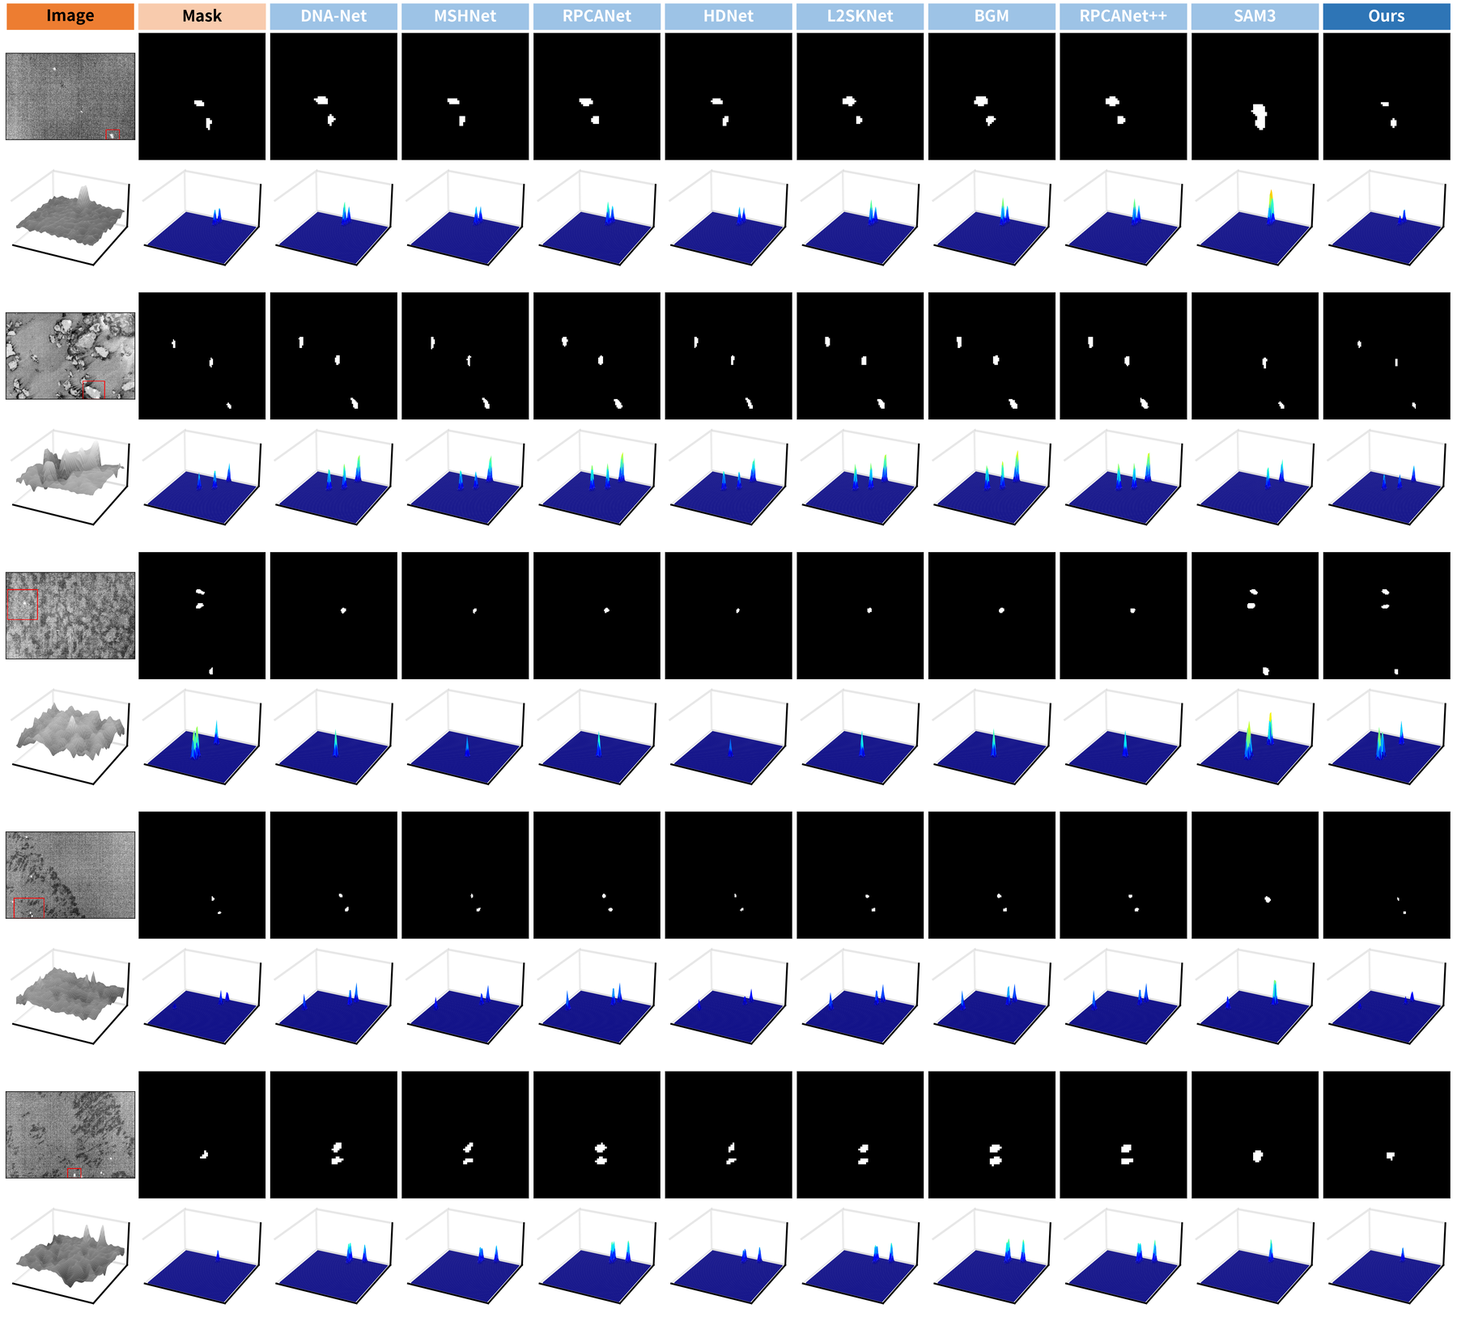
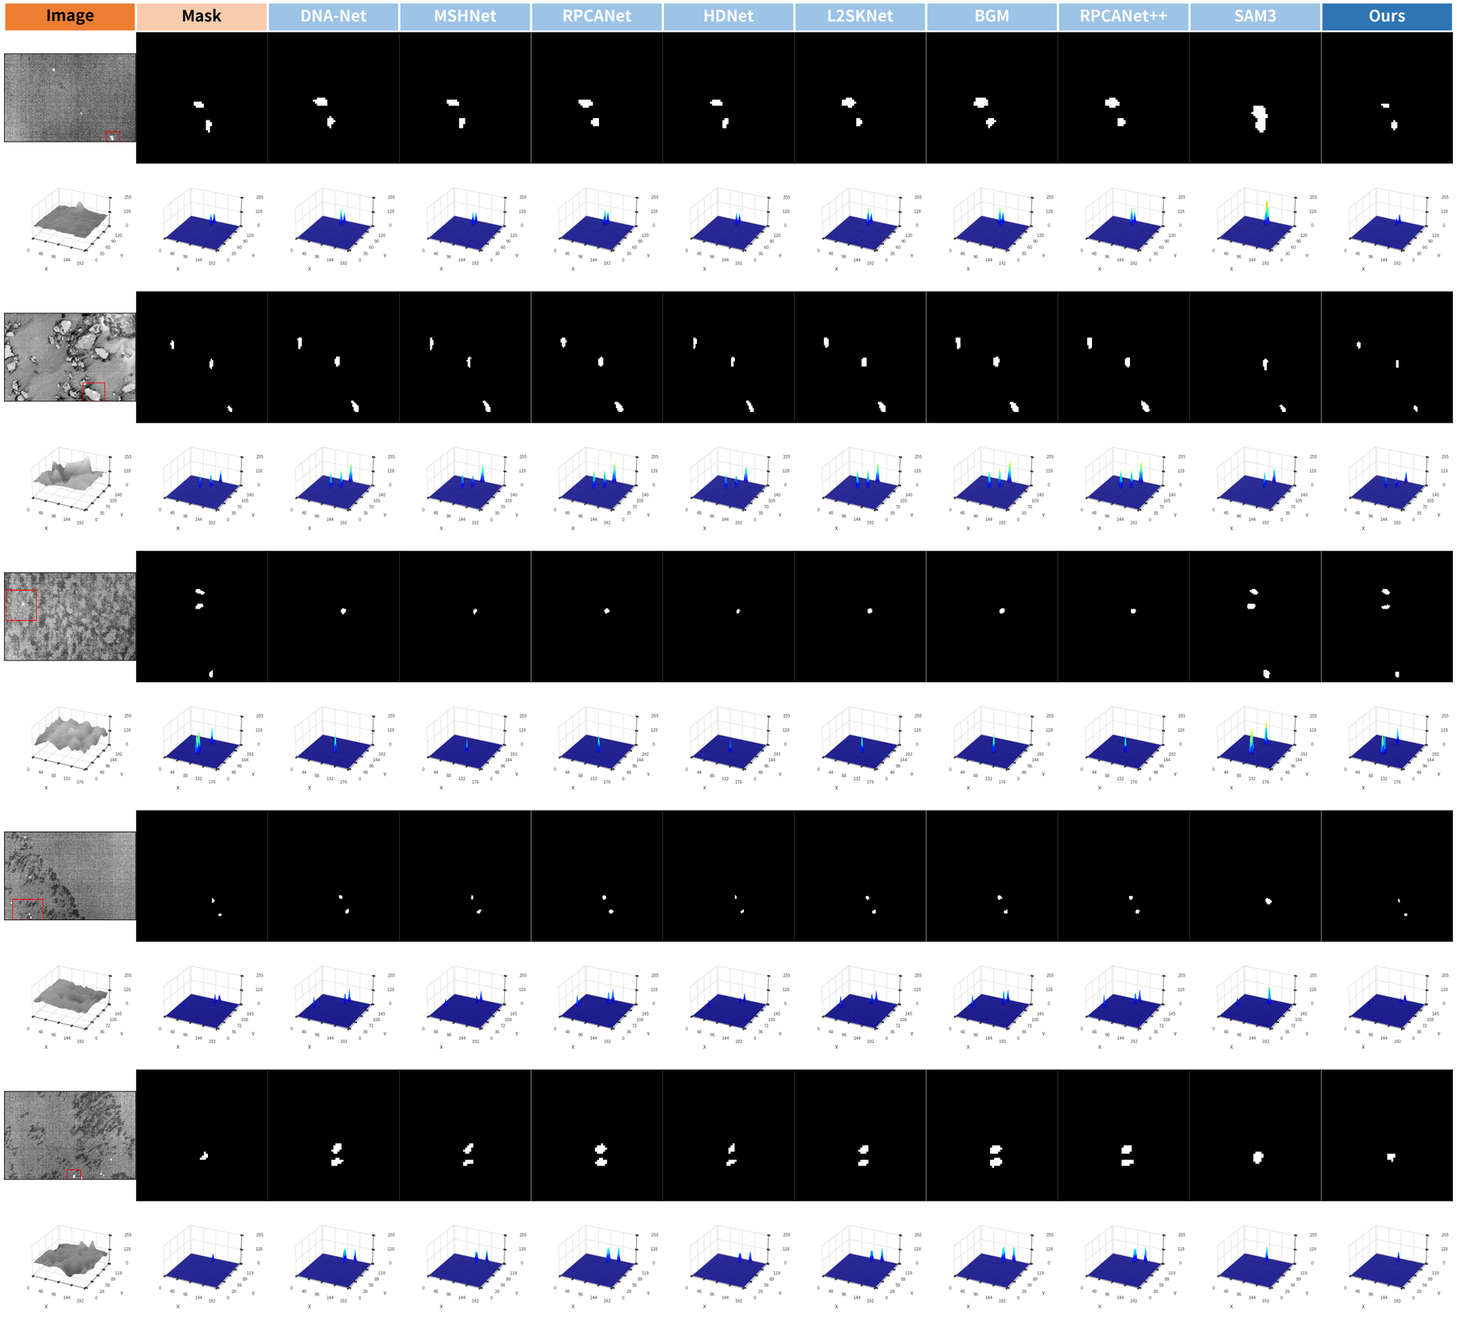
定性图 v2：列间距压紧、3D 加网格与坐标、去掉黑粗轴线
按审阅意见重画（对齐 PDDiff Fig.8/9）：
- wspace 0.02 -> 0.004、hspace 0.03 -> 0.015，2D 面板之间只剩 1-2 px 白缝
- 2D 行高度按图像真实比例（full 用 417/622，ROI 版正方形），去掉上下白边
- 3D：三个坐标面加浅灰网格 + X/Y/Z 整数刻度与轴名（MaxNLocator nbins=5 integer）
- 3D：轴线 0.25 pt 灰线，去掉 matplotlib 默认的黑色粗框；盒子 zoom=0.78 让刻度字落在本格内
- Image 列 3D 强度面平滑 sigma 3 -> 5

版本与归档：
- 服务器 quantitative_paper/：v1 保留在 user_pick/，v2 在 v2_20261105/
- 本地只留最新版 Ours/qualitative/v2_20261105/；PNG/PDF 加入 .gitignore 不再入库（单版约 80 MB）
- docs 记录 v1/v2 差异与产物尺寸

diff --git a/AGENTS.md b/AGENTS.md
@@ -62,7 +62,7 @@
 - DRPCA-Net 的 11.23 FPS 是实现开销而非测量噪声：`torch.profiler` 显示单次前向 CUDA 时间的 81.8 % 花在 `ChannelAttention` 的 `nn.AdaptiveMaxPool2d(1)`（每前向 29 次调用），且延迟对 batch 1/2/4 不敏感（85/56/65 ms）。按官方代码如实记录，不改实现。口径、对照表与差异分析见 [Seal 复杂度指标说明](docs/Seal复杂度指标_说明.md)。
 - 平凡基线（决定读表方式，不新增表行）：全背景预测（1,983 张全零）在同一 test GT 上为 S 0.49990、Fw 0、E 0.25、MAE 0.00020553，IoU/F1/Pd/Fa 均为 0。12 个基线与 Ours 的 S（0.49800–0.49915）全部低于该值，12 个基线的 MAE（0.000229–0.000375）全部高于该值，只有 Ours 的 MAE（0.00015090）低于它。因此 S/MAE 在 Seal 上不区分方法，比较以 Fw/IoU/F1/Pd/Fa 为主，S/MAE 须与平凡基线并列阅读；复算见 [汇总](docs/Seal全监督基线评估汇总.md#平凡基线全背景预测)。
 - 第三批（入表，行 29～32）：L2SKNet（TGRS25）、BGM（TGRS25）、DRPCA-Net（TGRS25）、DURD（TGRS26），均为 2025–2026 年、有官方代码的全监督单帧方法，12 个对比方法到此凑满。目录 `L2SKNet-main/`、`BGM-main/`、`DRPCA-Net-main/`、`DURD-main/`；训练设置：L2SKNet 150/Adam 5e-4、BGM 150/Adam 5e-4（两者模型输出已是概率，用概率空间 dataset 级 IoU）、DRPCA-Net 60/Adam 3e-5/dataset 级 SoftIoU + 0.01 MSE、DURD 100/Adam 1e-4/SoftIoU + 0.1 MSE。各处改动逐条写在对应实验记录与 [汇总](docs/Seal全监督基线评估汇总.md#训练不稳定与失败记录)。
-- 论文版式定性图（对齐 PDDiff Fig. 8/9）：[tools/build_paper_qualitative.py](tools/build_paper_qualitative.py)，每个样例两行（2D 二值面板 + 红框/放大插图；3D 响应面 `elev=26, azim=-64`、按面板 z 上限）。三条硬约束：① 3D 行必须喂**概率图**（`--surf-maps results/<M>/Seal/fullsup_test_maps`），二值图是 0/255 阶跃，画出来只有一根尖刺；② Seal 目标只有 3–5 px，`full` 版式（整幅 + 右下插图）在 0.87 in 列宽下几乎看不见，正式图用 `--roi-panels`（面板 = 6 倍放大 ROI，`--roi-min 64 --roi-margin 24`）；③ 11 列 × 11 样例按 9.6 in 出图，若按 7.2 in 排版表头掉到 5.6 pt，主图应拆成 `seal_pick6_roi` + `seal_pick5_roi` 两张。样例取 [docs/qualitative_rank_top200.json](docs/qualitative_rank_top200.json)（`score = F1(Ours) − mean_k F1(baseline_k)`，可用 [docs/qualitative_review_top200.html](docs/qualitative_review_top200.html) 逐图复核），当前采用排名 1,2,5,6,8,11,13,15,19,21,29 共 11 张，一键重建 [tools/make_paper_qualitative_pick.sh](tools/make_paper_qualitative_pick.sh)。Ours 预测在 `Ours/test_maps`（1,983 张概率图）、SAM3 在 `Ours/SAM3-test_maps`（同阈值 `>=128`）。版式规格、样例清单与读数见 [docs/Seal定性图_论文版式.md](docs/Seal定性图_论文版式.md)，预览 `docs/assets/seal_qualitative_pick6_roi.png`、`docs/assets/seal_qualitative_pick11_full.png`。全分辨率成品（600 dpi PNG + 矢量 PDF + meta，6 个 tag 共 18 个文件）归档在 `Ours/qualitative/v1_20261104_11col/`，**每一版单独一个 `v*` 子文件夹，新版本不覆盖旧版**。
+- 论文版式定性图（对齐 PDDiff Fig. 8/9）：[tools/build_paper_qualitative.py](tools/build_paper_qualitative.py)，每个样例两行（2D 二值面板 + 红框/放大插图；3D 响应面 `elev=26, azim=-64`、按面板 z 上限）。三条硬约束：① 3D 行必须喂**概率图**（`--surf-maps results/<M>/Seal/fullsup_test_maps`），二值图是 0/255 阶跃，画出来只有一根尖刺；② Seal 目标只有 3–5 px，`full` 版式（整幅 + 右下插图）在 0.87 in 列宽下几乎看不见，正式图用 `--roi-panels`（面板 = 6 倍放大 ROI，`--roi-min 64 --roi-margin 24`）；③ 11 列 × 11 样例按 9.6 in 出图，若按 7.2 in 排版表头掉到 5.6 pt，主图应拆成 `seal_pick6_roi` + `seal_pick5_roi` 两张。样例取 [docs/qualitative_rank_top200.json](docs/qualitative_rank_top200.json)（`score = F1(Ours) − mean_k F1(baseline_k)`，可用 [docs/qualitative_review_top200.html](docs/qualitative_review_top200.html) 逐图复核），当前采用排名 1,2,5,6,8,11,13,15,19,21,29 共 11 张，一键重建 [tools/make_paper_qualitative_pick.sh](tools/make_paper_qualitative_pick.sh)。Ours 预测在 `Ours/test_maps`（1,983 张概率图）、SAM3 在 `Ours/SAM3-test_maps`（同阈值 `>=128`）。版式规格、样例清单与读数见 [docs/Seal定性图_论文版式.md](docs/Seal定性图_论文版式.md)，预览 `docs/assets/seal_qualitative_pick6_roi.png`、`docs/assets/seal_qualitative_pick11_full.png`。全分辨率成品（600 dpi PNG + 矢量 PDF + meta，6 个 tag 共 18 个文件，约 80 MB/版）按版本归档：服务器保留全部历史（v1 `qualitative_paper/user_pick/`、v2 `qualitative_paper/v2_20261105/`），本地只留最新一版在 `Ours/qualitative/v2_20261105/`，**每一版单独一个 `v*` 子文件夹**。PNG/PDF 体积大，已在 `.gitignore` 里排除（不进 git），每版目录内的 `README.md` 仍跟踪。v2 相对 v1 的版式改动：列间距压到 `wspace=0.004`、2D 行高度按图像真实比例（ROI 版正方形）、3D 加浅灰网格 + 整数刻度 + X/Y/Z 轴名（`MaxNLocator(nbins=5, integer=True)`）、轴线压到 0.25 pt 灰线去掉黑色粗框、3D 盒子 `zoom=0.78` 让刻度落在本格内。
 - 定性图（论文拼图用）：12 个方法与 Ours 的二值预测图在 `results/<Method>/Seal/test_binary/`（1,983 张，`pixel >= 128` → 255），由 [tools/make_binary_maps.py](tools/make_binary_maps.py) 与 [tools/make_qualitative.sh](tools/make_qualitative.sh) 生成；样例拼图在服务器 `qualitative/<stem>/panel.png`（RGB/热红外/GT/预测叠加，13 行），样例清单 `docs/Seal定性对比样例.json`，说明见 [docs/Seal定性对比图.md](docs/Seal定性对比图.md)。
 - IoU 的边界敏感性：Seal 目标平均 14.3 像素，把 GT 膨胀/腐蚀 1 像素当预测只能得到 IoU 0.3910 / 0.0826；表中 IoU 0.19–0.31 对应约 1–2 像素边界误差，不能读作分割质量百分比，须与 Fw/F1/Pd/Fa 合看，详见 [定义对照](docs/小目标评价指标_定义与代码对照.md#iou-的边界敏感性seal-gt-实测)。
 - 实验记录：[ACM](docs/ACM_Seal实验记录.md)、[DNA-Net](docs/DNANet_Seal实验记录.md)、[MSHNet](docs/MSHNet_Seal实验记录.md)、[UIU-Net](docs/UIU-Net_Seal实验记录.md)、[SCTransNet](docs/SCTransNet_Seal实验记录.md)、[RPCANet](docs/RPCANet_Seal实验记录.md)、[HDNet](docs/HDNet_Seal实验记录.md)、[ILNet](docs/ILNet_Seal实验记录.md)、[RPCANet++](docs/RPCANet++_Seal实验记录.md)、[L2SKNet](docs/L2SKNet_Seal实验记录.md)、[BGM](docs/BGM_Seal实验记录.md)、[DRPCA-Net](docs/DRPCA-Net_Seal实验记录.md)、[DURD](docs/DURD_Seal实验记录.md)、[DHiF](docs/DHiF_Seal实验记录.md)，汇总见 [Seal全监督基线评估汇总](docs/Seal全监督基线评估汇总.md)，定性图见 [Seal定性对比图](docs/Seal定性对比图.md)。

diff --git a/README.md b/README.md
@@ -65,7 +65,7 @@
 - DRPCA-Net 的 11.23 FPS 是实现开销而非测量噪声：`torch.profiler` 显示单次前向 CUDA 时间的 81.8 % 花在 `ChannelAttention` 的 `nn.AdaptiveMaxPool2d(1)`（每前向 29 次调用），且延迟对 batch 1/2/4 不敏感（85/56/65 ms）。按官方代码如实记录，不改实现。口径、对照表与差异分析见 [Seal 复杂度指标说明](docs/Seal复杂度指标_说明.md)。
 - 平凡基线（决定读表方式，不新增表行）：全背景预测（1,983 张全零）在同一 test GT 上为 S 0.49990、Fw 0、E 0.25、MAE 0.00020553，IoU/F1/Pd/Fa 均为 0。12 个基线与 Ours 的 S（0.49800–0.49915）全部低于该值，12 个基线的 MAE（0.000229–0.000375）全部高于该值，只有 Ours 的 MAE（0.00015090）低于它。因此 S/MAE 在 Seal 上不区分方法，比较以 Fw/IoU/F1/Pd/Fa 为主，S/MAE 须与平凡基线并列阅读；复算见 [汇总](docs/Seal全监督基线评估汇总.md#平凡基线全背景预测)。
 - 第三批（入表，行 29～32）：L2SKNet（TGRS25）、BGM（TGRS25）、DRPCA-Net（TGRS25）、DURD（TGRS26），均为 2025–2026 年、有官方代码的全监督单帧方法，12 个对比方法到此凑满。目录 `L2SKNet-main/`、`BGM-main/`、`DRPCA-Net-main/`、`DURD-main/`；训练设置：L2SKNet 150/Adam 5e-4、BGM 150/Adam 5e-4（两者模型输出已是概率，用概率空间 dataset 级 IoU）、DRPCA-Net 60/Adam 3e-5/dataset 级 SoftIoU + 0.01 MSE、DURD 100/Adam 1e-4/SoftIoU + 0.1 MSE。各处改动逐条写在对应实验记录与 [汇总](docs/Seal全监督基线评估汇总.md#训练不稳定与失败记录)。
-- 论文版式定性图（对齐 PDDiff Fig. 8/9）：[tools/build_paper_qualitative.py](tools/build_paper_qualitative.py)，每个样例两行（2D 二值面板 + 红框/放大插图；3D 响应面 `elev=26, azim=-64`、按面板 z 上限）。三条硬约束：① 3D 行必须喂**概率图**（`--surf-maps results/<M>/Seal/fullsup_test_maps`），二值图是 0/255 阶跃，画出来只有一根尖刺；② Seal 目标只有 3–5 px，`full` 版式（整幅 + 右下插图）在 0.87 in 列宽下几乎看不见，正式图用 `--roi-panels`（面板 = 6 倍放大 ROI，`--roi-min 64 --roi-margin 24`）；③ 11 列 × 11 样例按 9.6 in 出图，若按 7.2 in 排版表头掉到 5.6 pt，主图应拆成 `seal_pick6_roi` + `seal_pick5_roi` 两张。样例取 [docs/qualitative_rank_top200.json](docs/qualitative_rank_top200.json)（`score = F1(Ours) − mean_k F1(baseline_k)`，可用 [docs/qualitative_review_top200.html](docs/qualitative_review_top200.html) 逐图复核），当前采用排名 1,2,5,6,8,11,13,15,19,21,29 共 11 张，一键重建 [tools/make_paper_qualitative_pick.sh](tools/make_paper_qualitative_pick.sh)。Ours 预测在 `Ours/test_maps`（1,983 张概率图）、SAM3 在 `Ours/SAM3-test_maps`（同阈值 `>=128`）。版式规格、样例清单与读数见 [docs/Seal定性图_论文版式.md](docs/Seal定性图_论文版式.md)，预览 `docs/assets/seal_qualitative_pick6_roi.png`、`docs/assets/seal_qualitative_pick11_full.png`。全分辨率成品（600 dpi PNG + 矢量 PDF + meta，6 个 tag 共 18 个文件）归档在 `Ours/qualitative/v1_20261104_11col/`，**每一版单独一个 `v*` 子文件夹，新版本不覆盖旧版**。
+- 论文版式定性图（对齐 PDDiff Fig. 8/9）：[tools/build_paper_qualitative.py](tools/build_paper_qualitative.py)，每个样例两行（2D 二值面板 + 红框/放大插图；3D 响应面 `elev=26, azim=-64`、按面板 z 上限）。三条硬约束：① 3D 行必须喂**概率图**（`--surf-maps results/<M>/Seal/fullsup_test_maps`），二值图是 0/255 阶跃，画出来只有一根尖刺；② Seal 目标只有 3–5 px，`full` 版式（整幅 + 右下插图）在 0.87 in 列宽下几乎看不见，正式图用 `--roi-panels`（面板 = 6 倍放大 ROI，`--roi-min 64 --roi-margin 24`）；③ 11 列 × 11 样例按 9.6 in 出图，若按 7.2 in 排版表头掉到 5.6 pt，主图应拆成 `seal_pick6_roi` + `seal_pick5_roi` 两张。样例取 [docs/qualitative_rank_top200.json](docs/qualitative_rank_top200.json)（`score = F1(Ours) − mean_k F1(baseline_k)`，可用 [docs/qualitative_review_top200.html](docs/qualitative_review_top200.html) 逐图复核），当前采用排名 1,2,5,6,8,11,13,15,19,21,29 共 11 张，一键重建 [tools/make_paper_qualitative_pick.sh](tools/make_paper_qualitative_pick.sh)。Ours 预测在 `Ours/test_maps`（1,983 张概率图）、SAM3 在 `Ours/SAM3-test_maps`（同阈值 `>=128`）。版式规格、样例清单与读数见 [docs/Seal定性图_论文版式.md](docs/Seal定性图_论文版式.md)，预览 `docs/assets/seal_qualitative_pick6_roi.png`、`docs/assets/seal_qualitative_pick11_full.png`。全分辨率成品（600 dpi PNG + 矢量 PDF + meta，6 个 tag 共 18 个文件，约 80 MB/版）按版本归档：服务器保留全部历史（v1 `qualitative_paper/user_pick/`、v2 `qualitative_paper/v2_20261105/`），本地只留最新一版在 `Ours/qualitative/v2_20261105/`，**每一版单独一个 `v*` 子文件夹**。PNG/PDF 体积大，已在 `.gitignore` 里排除（不进 git），每版目录内的 `README.md` 仍跟踪。v2 相对 v1 的版式改动：列间距压到 `wspace=0.004`、2D 行高度按图像真实比例（ROI 版正方形）、3D 加浅灰网格 + 整数刻度 + X/Y/Z 轴名（`MaxNLocator(nbins=5, integer=True)`）、轴线压到 0.25 pt 灰线去掉黑色粗框、3D 盒子 `zoom=0.78` 让刻度落在本格内。
 - 定性图（论文拼图用）：12 个方法与 Ours 的二值预测图在 `results/<Method>/Seal/test_binary/`（1,983 张，`pixel >= 128` → 255），由 [tools/make_binary_maps.py](tools/make_binary_maps.py) 与 [tools/make_qualitative.sh](tools/make_qualitative.sh) 生成；样例拼图在服务器 `qualitative/<stem>/panel.png`（RGB/热红外/GT/预测叠加，13 行），样例清单 `docs/Seal定性对比样例.json`，说明见 [docs/Seal定性对比图.md](docs/Seal定性对比图.md)。
 - IoU 的边界敏感性：Seal 目标平均 14.3 像素，把 GT 膨胀/腐蚀 1 像素当预测只能得到 IoU 0.3910 / 0.0826；表中 IoU 0.19–0.31 对应约 1–2 像素边界误差，不能读作分割质量百分比，须与 Fw/F1/Pd/Fa 合看，详见 [定义对照](docs/小目标评价指标_定义与代码对照.md#iou-的边界敏感性seal-gt-实测)。
 - 实验记录：[ACM](docs/ACM_Seal实验记录.md)、[DNA-Net](docs/DNANet_Seal实验记录.md)、[MSHNet](docs/MSHNet_Seal实验记录.md)、[UIU-Net](docs/UIU-Net_Seal实验记录.md)、[SCTransNet](docs/SCTransNet_Seal实验记录.md)、[RPCANet](docs/RPCANet_Seal实验记录.md)、[HDNet](docs/HDNet_Seal实验记录.md)、[ILNet](docs/ILNet_Seal实验记录.md)、[RPCANet++](docs/RPCANet++_Seal实验记录.md)、[L2SKNet](docs/L2SKNet_Seal实验记录.md)、[BGM](docs/BGM_Seal实验记录.md)、[DRPCA-Net](docs/DRPCA-Net_Seal实验记录.md)、[DURD](docs/DURD_Seal实验记录.md)、[DHiF](docs/DHiF_Seal实验记录.md)，汇总见 [Seal全监督基线评估汇总](docs/Seal全监督基线评估汇总.md)，定性图见 [Seal定性对比图](docs/Seal定性对比图.md)。

diff --git a/docs/Seal定性图_论文版式.md b/docs/Seal定性图_论文版式.md
@@ -31,9 +31,11 @@
 | 二值面板 | `pred >= 128`（概率 > 0.5），与定量表、`AS1000Metrics` 完全同口径 |
 | 红框 | 由 **GT 包围框**外扩得到（所有方法共用同一个框，`--roi-min 64 px`、`--roi-margin 24 px`），保证各列可比；Seal 目标只有 3–5 px 宽，64 px 的框约等于目标的 10–20 倍视野 |
 | 放大插图 | 右下角、红框、`ZOOM=10`、最近邻，最大占面板 46%（`full` 版式） |
-| 3D 响应面 | 取目标中心 `--crop3d 192` 的方形块，`elev=26, azim=-64`、Z 按面板各自上限（`--z-mode per-panel`；`shared` 可强制 0–255）。**必须用概率图**：二值图是 0/255 阶跃，画出来只有一根尖刺；`--surf-maps` 指定 `results/<M>/Seal/fullsup_test_maps`。Image 列用 `gray` 配色 + `sigma=3` 平滑（热图纹理在 `jet` 下太花），其余列 `jet` + `sigma=2`，且不显示 Z 刻度（0.85 in 的面板里刻度只会变成噪点） |
+| 3D 响应面 | 取目标中心 `--crop3d 192` 的方形块，`elev=26, azim=-64`、Z 按面板各自上限（`--z-mode per-panel`；`shared` 可强制 0–255）。**必须用概率图**：二值图是 0/255 阶跃，画出来只有一根尖刺；`--surf-maps` 指定 `results/<M>/Seal/fullsup_test_maps`。Image 列用 `gray` + `sigma=5`（热图纹理在 `jet` 下太花），其余列 `jet` + `sigma=2` |
+| 3D 坐标/网格（v2） | 三个坐标面画浅灰网格（`_axinfo['grid']` 0.86 灰 / 0.22 pt），X/Y/Z 带整数刻度（`MaxNLocator(nbins=5, integer=True)` → 0/50/100/150 这种好刻度）与轴名，字号 2.1 pt；轴线压到 0.25 pt、0.45 灰，坐标面边框 0.3 pt、0.85 灰——**没有黑色粗轴线**；3D 盒子 `zoom=0.78`，保证刻度字落在本方格内（否则被右邻面板白底盖掉） |
 | 字体 | 默认 `--font "Microsoft YaHei,Noto Sans CJK JP,DejaVu Sans"`。服务器没有雅黑，matplotlib 认领 `NotoSansCJK-*.ttc`（`fontconfig` 装好的 `.ttc` matplotlib 默认看不到，脚本里显式 `addfont`）；在装过雅黑的 Windows/macOS 上重跑即自动用雅黑 |
-| 块间距 | 每个样例块之间插 0.12 in 白条（`gap_h`），否则相邻样例的 3D 行和下一块的 2D 行会粘在一起 |
+| 面板间距（v2） | `wspace=0.004`、`hspace=0.015`，2D 面板之间只剩 1–2 px 白缝（PDDiff 就是贴着的）；2D 行高度按图像真实比例（`img_h = cell_w×417/622`，ROI 版为正方形），不再有上下白边 |
+| 块间距 | 每个样例块之间插 0.10 in 白条（`gap_h`），否则相邻样例的 3D 行和下一块的 2D 行会粘在一起 |
 | 输出 | `<tag>_qualitative.png`（600 dpi）+ `<tag>_qualitative.pdf`（矢量）+ `<tag>_meta.json`（列名、样例、阈值、参数） |
 
 两种 2D 行版式（其余部分完全相同）：
@@ -110,18 +112,27 @@ python tools/build_paper_qualitative.py \
 
 （`2688/2120/2894` 是多目标或细长目标，视野被 `--roi-min 64` 自动放大到 98–138 px。）
 
-构建：`bash tools/make_paper_qualitative_pick.sh all`（`full`/`roi` 二选一也行），产物在服务器 `qualitative_paper/user_pick/`：
+构建：`bash tools/make_paper_qualitative_pick.sh all`（`full`/`roi` 二选一也行）。
+
+### 版本
+
+| 版本 | 服务器目录 | 本地目录 | 说明 |
+|---|---|---|---|
+| v1 | `qualitative_paper/user_pick/` | 已删除 | 首版：3D 无刻度、有黑色粗轴线、列间距 0.02、Image 列 `gray+sigma3` |
+| v2（当前） | `qualitative_paper/v2_20261105/` | `Ours/qualitative/v2_20261105/` | 按审阅意见改：列间距压到 0.004、2D 行按真实比例、3D 加网格+整数刻度+轴名、去掉黑粗轴线、3D 盒子 `zoom=0.78` |
+
+服务器保留全部历史版本；本地只留最新一版，且 PNG/PDF 不进 git（`Ours/qualitative/*/*.png|pdf` 已在 `.gitignore`，单版约 80 MB），每版目录里的 `README.md` 仍然跟踪。
+
+v2 产物（600 dpi PNG + 矢量 PDF + meta）：
 
 | 文件 | 内容 | 尺寸 |
 |---|---|---|
-| `seal_pick11_qualitative.png/pdf` | 11 样例 × 11 列，`full` 版式（整幅 + 红框 + 插图） | 5760×10618 px / 9.6×17.7 in |
-| `seal_pick6_qualitative.*` / `seal_pick5_qualitative.*` | 同样例拆成 6 + 5 两张 | 5760×5860 / 5760×4908 px |
-| `seal_pick11_roi_qualitative.*` | 11 样例，`roi` 版式（面板 = 6 倍放大 ROI） | 5760×11425 px / 9.6×19.0 in |
-| `seal_pick6_roi_*` / `seal_pick5_roi_*` | 同上拆两张 | 5760×6300 / 5760×5275 px |
+| `seal_pick11_qualitative.png/pdf` | 11 样例 × 11 列，`full` 版式（整幅 + 红框 + 插图） | 5760×10086 px / 9.6×16.8 in |
+| `seal_pick6_qualitative.*` / `seal_pick5_qualitative.*` | 同样例拆成 6 + 5 两张 | 5760×5569 / 5760×4666 px |
+| `seal_pick11_roi_qualitative.*` | 11 样例，`roi` 版式（面板 = 6 倍放大 ROI） | 5760×11408 px / 9.6×19.0 in |
+| `seal_pick6_roi_*` / `seal_pick5_roi_*` | 同上拆两张 | 5760×6290 / 5760×5267 px |
 
-仓库内预览（1800 px 宽，仅用于查看版式）：[`seal_qualitative_pick6_roi.png`](assets/seal_qualitative_pick6_roi.png)、[`seal_qualitative_pick5_roi.png`](assets/seal_qualitative_pick5_roi.png)、[`seal_qualitative_pick11_full.png`](assets/seal_qualitative_pick11_full.png)。
-
-全分辨率成品（600 dpi PNG + 矢量 PDF + meta）已下载归档到本仓库 `Ours/qualitative/v1_20261104_11col/`（18 个文件，86 MB），含 `README.md` 记录列名、样例 ID、GT 面积与参数。**每一版图单独建 `v*` 子文件夹**，新一版另建 `v2_<日期>_<说明>/`，不覆盖旧版。
+仓库内预览（1800 px 宽，仅用于查看版式，已同步为 v2）：[`seal_qualitative_pick6_roi.png`](assets/seal_qualitative_pick6_roi.png)、[`seal_qualitative_pick5_roi.png`](assets/seal_qualitative_pick5_roi.png)、[`seal_qualitative_pick11_full.png`](assets/seal_qualitative_pick11_full.png)。
 
 从图上直接能读到的事实（对照表 21～32 行）：
 
